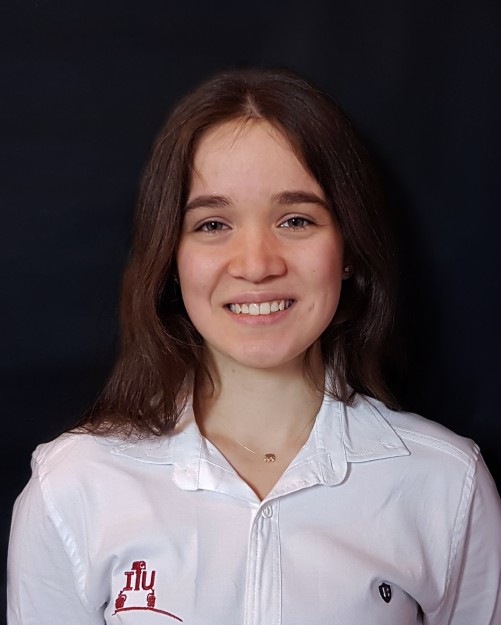
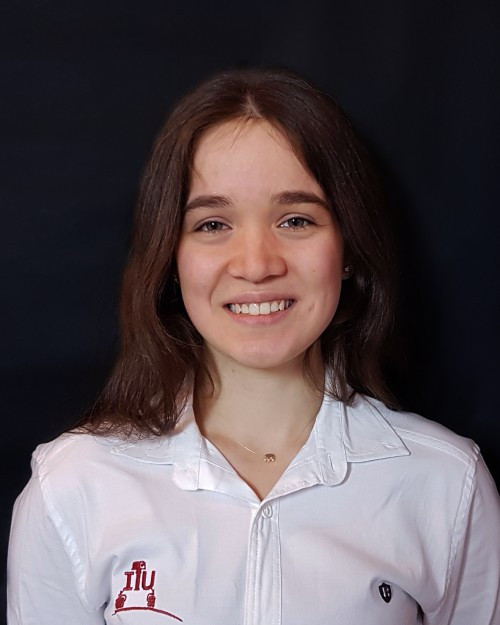
New member added, some photos resized.

diff --git a/pieces/members.html b/pieces/members.html
@@ -172,6 +172,40 @@
                 <div class="row">
                     <div class="row">
                         <div class="col-xs-6 col-xs-offset-3 col-sm-4 col-sm-offset-4 col-md-6 col-md-offset-3">
+                            <img class="img-circle img-responsive" src="/static/img/portraits/30.jpg"></img>
+                        </div>
+                    </div>
+                    <div class="row">
+                        <div class="col-md-12">
+                            <h5 class="font-thick">
+                                <a role=""
+                                   tabindex="0"
+                                   data-toggle=""
+                                   data-trigger="focus"
+
+                                   data-placement="bottom"
+                                   data-html="true"
+
+                                   data-content="<div>
+
+                                       <p><i class='fa fa-fw fa-envelope' aria-hidden='true'></i> email@liame.com</p>
+                                       <p><i class='fa fa-fw fa-phone' aria-hidden='true'></i> 09998887766</p>
+                                   </div>">
+                                   <p>HÜSEYİN ÖRDEKÇİ</p>
+                                </a>
+                            </h5>
+                            <h6 class="font-thick role-in-team">Mekanik Ekibi Üyesi</h6>
+                            <h6 class="department">İTÜ Makina Mühendisliği<br>Lisans Öğrencisi</h6>
+                        </div>
+                    </div>
+                </div>
+                <br>
+            </div>
+
+            <div class="col-md-3">
+                <div class="row">
+                    <div class="row">
+                        <div class="col-xs-6 col-xs-offset-3 col-sm-4 col-sm-offset-4 col-md-6 col-md-offset-3">
                             <img class="img-circle img-responsive" src="/static/img/portraits/15.jpg"></img>
                         </div>
                     </div>
